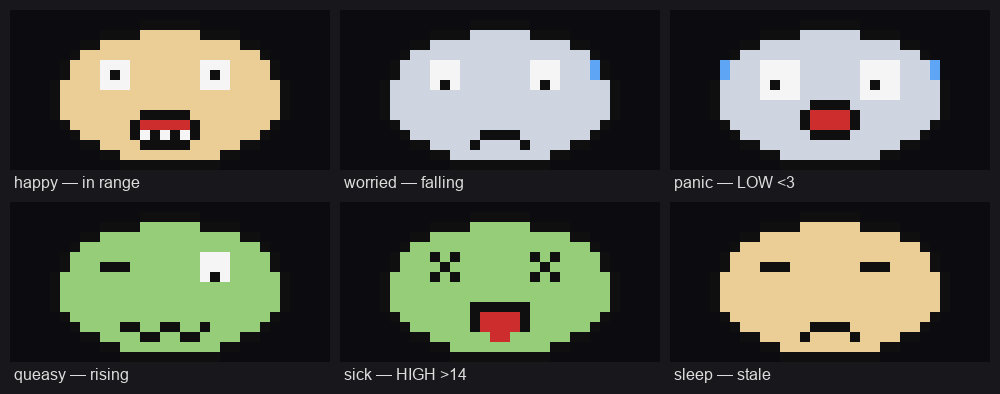
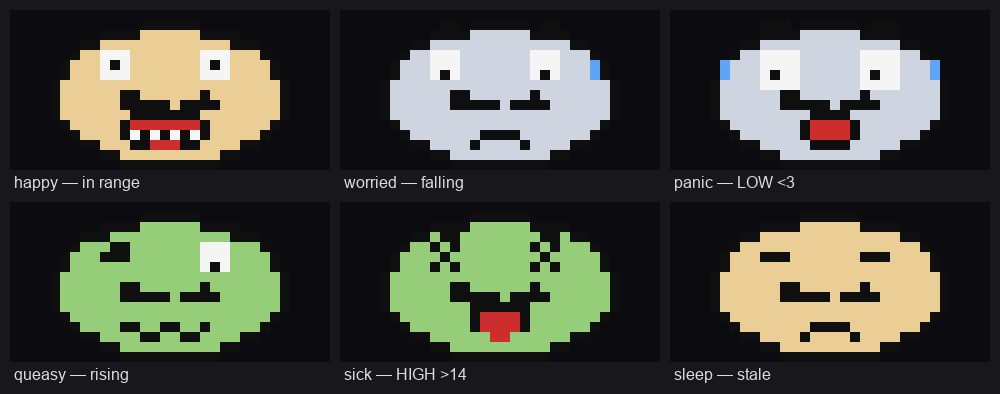
face: NOT-man moustache + eyebrows, bigger toothy grin
Add a crooked lopsided moustache and expressive eyebrows to every face, and a
wider toothy grin for happy — much closer to the Anthrax NOT-man. Brows carry
emotion (raised = worry/panic, angry = queasy/sick), moustache is a constant
character trait. Regenerated docs face GIFs + overview.

diff --git a/src/face.ts b/src/face.ts
@@ -79,7 +79,17 @@ const EYE_WIDE = ["WWWW", "WWWW", "WPWW", "WWWW"]; // scared
 const EYE_X = ["P.P", ".P.", "P.P"];
 const EYE_SLEEP = ["...", "PPP", "..."];
 
-const MOUTH_GRIN = [" ##### ", "#RRRRR#", "#T#T#T#", " ##### "];
+// eyebrows (black). Position + tilt carry the emotion.
+const BROW_FLAT = ["###"];
+const BROW_UP_L = [".##", "#.."]; // outer-up (left)  \
+const BROW_UP_R = ["##.", "..#"]; // outer-up (right) /
+const BROW_ANGRY_L = ["#..", ".##"]; // inner-down (left)  /
+const BROW_ANGRY_R = ["..#", "##."]; // inner-down (right) \
+
+// crooked NOT-man moustache (black), lopsided — left tip up, right tip low
+const MOUSTACHE = ["##......#.", "#####.####"];
+
+const MOUTH_GRIN = [" ####### ", "#RRRRRRR#", "#T#T#T#T#", " ##RRR## "]; // big toothy grin
 const MOUTH_FROWN = [".####.", "#....#"]; // small ∩
 const MOUTH_O = [".####.", "#RRRR#", "#RRRR#", ".####."];
 const MOUTH_WAVY = ["##..##..#", "..##..##."];
@@ -103,45 +113,57 @@ export function expressionForLevel(level: Level): Expr {
 /** Build the animation frames for an expression. */
 function frames(expr: Expr): Uint8Array[] {
   const eyes = (f: Uint8Array, l: string[], r: string[], dx = 0) => {
-    stamp(f, 9, 5, l, dx);
-    stamp(f, 19, 5, r, dx);
+    stamp(f, 9, 4, l, dx);
+    stamp(f, 19, 4, r, dx);
   };
+  const brows = (f: Uint8Array, l: string[], r: string[], y = 2, dx = 0) => {
+    stamp(f, 9, y, l, dx);
+    stamp(f, 20, y, r, dx);
+  };
+  const stache = (f: Uint8Array, dx = 0) => stamp(f, 11, 8, MOUSTACHE, dx);
 
   if (expr === "happy") {
-    const a = head(SKIN); eyes(a, EYE_OPEN, EYE_OPEN); stamp(a, 12, 10, MOUTH_GRIN);
-    const b = head(SKIN); eyes(b, EYE_BLINK, EYE_BLINK); stamp(b, 12, 10, MOUTH_GRIN);
+    // crooked brow (one raised) + moustache + big toothy grin = NOT-man
+    const a = head(SKIN); brows(a, BROW_FLAT, BROW_UP_R, 2); eyes(a, EYE_OPEN, EYE_OPEN); stache(a); stamp(a, 11, 10, MOUTH_GRIN);
+    const b = head(SKIN); brows(b, BROW_FLAT, BROW_UP_R, 2); eyes(b, EYE_BLINK, EYE_BLINK); stache(b); stamp(b, 11, 10, MOUTH_GRIN);
     return [a, a, a, b]; // mostly open, quick blink
   }
 
   if (expr === "worried") {
-    const a = head(PALE); eyes(a, EYE_DOWN, EYE_DOWN); stamp(a, 13, 12, MOUTH_FROWN); stamp(a, 25, 5, SWEAT);
-    const b = head(PALE); eyes(b, EYE_DOWN, EYE_DOWN); stamp(b, 13, 12, MOUTH_FROWN); stamp(b, 25, 8, SWEAT);
-    return [a, b];
+    const mk = (sy: number) => {
+      const f = head(PALE); brows(f, BROW_UP_L, BROW_UP_R, 1); eyes(f, EYE_DOWN, EYE_DOWN);
+      stache(f); stamp(f, 13, 12, MOUTH_FROWN); stamp(f, 25, sy, SWEAT); return f;
+    };
+    return [mk(5), mk(8)]; // sweat drips
   }
 
   if (expr === "panic") {
-    const a = head(PALE, 0); eyes(a, EYE_WIDE, EYE_WIDE, 0); stamp(a, 13, 9, MOUTH_O);
-    stamp(a, 5, 5, SWEAT); stamp(a, 26, 5, SWEAT);
-    const b = head(PALE, 1); eyes(b, EYE_WIDE, EYE_WIDE, 1); stamp(b, 14, 9, MOUTH_O);
-    stamp(b, 5, 8, SWEAT); stamp(b, 26, 8, SWEAT);
-    return [a, b]; // shake + sweat
+    const mk = (dx: number, sy: number) => {
+      const f = head(PALE, dx); brows(f, BROW_FLAT, BROW_FLAT, 1, dx); eyes(f, EYE_WIDE, EYE_WIDE, dx);
+      stache(f, dx); stamp(f, 13 + dx, 10, MOUTH_O); stamp(f, 5, sy, SWEAT); stamp(f, 26, sy, SWEAT); return f;
+    };
+    return [mk(0, 5), mk(1, 8)]; // shake + sweat
   }
 
   if (expr === "queasy") {
-    const a = head(GREEN); eyes(a, EYE_BLINK, EYE_DOWN); stamp(a, 11, 12, MOUTH_WAVY);
-    const b = head(GREEN); eyes(b, EYE_DOWN, EYE_BLINK); stamp(b, 11, 12, MOUTH_WAVY);
-    return [a, b];
+    const mk = (l: string[], r: string[]) => {
+      const f = head(GREEN); brows(f, BROW_ANGRY_L, BROW_ANGRY_R, 3); eyes(f, l, r);
+      stache(f); stamp(f, 11, 12, MOUTH_WAVY); return f;
+    };
+    return [mk(EYE_BLINK, EYE_DOWN), mk(EYE_DOWN, EYE_BLINK)];
   }
 
   if (expr === "sick") {
-    const a = head(GREEN, 0); eyes(a, EYE_X, EYE_X); stamp(a, 13, 10, MOUTH_TONGUE);
-    const b = head(GREEN, 1); eyes(b, EYE_X, EYE_X, 1); stamp(b, 14, 10, MOUTH_TONGUE);
-    return [a, b];
+    const mk = (dx: number) => {
+      const f = head(GREEN, dx); brows(f, BROW_ANGRY_L, BROW_ANGRY_R, 2, dx); eyes(f, EYE_X, EYE_X, dx);
+      stache(f, dx); stamp(f, 13 + dx, 10, MOUTH_TONGUE); return f;
+    };
+    return [mk(0), mk(1)]; // wobble
   }
 
-  // sleep
-  const a = head(SKIN); eyes(a, EYE_SLEEP, EYE_SLEEP); stamp(a, 13, 12, MOUTH_FROWN);
-  return [a];
+  // sleep — closed eyes, moustache, no brows
+  const s = head(SKIN); eyes(s, EYE_SLEEP, EYE_SLEEP); stache(s); stamp(s, 13, 12, MOUTH_FROWN);
+  return [s];
 }
 
 function encode(fr: Uint8Array[], scale: number, delay: number): Uint8Array {
